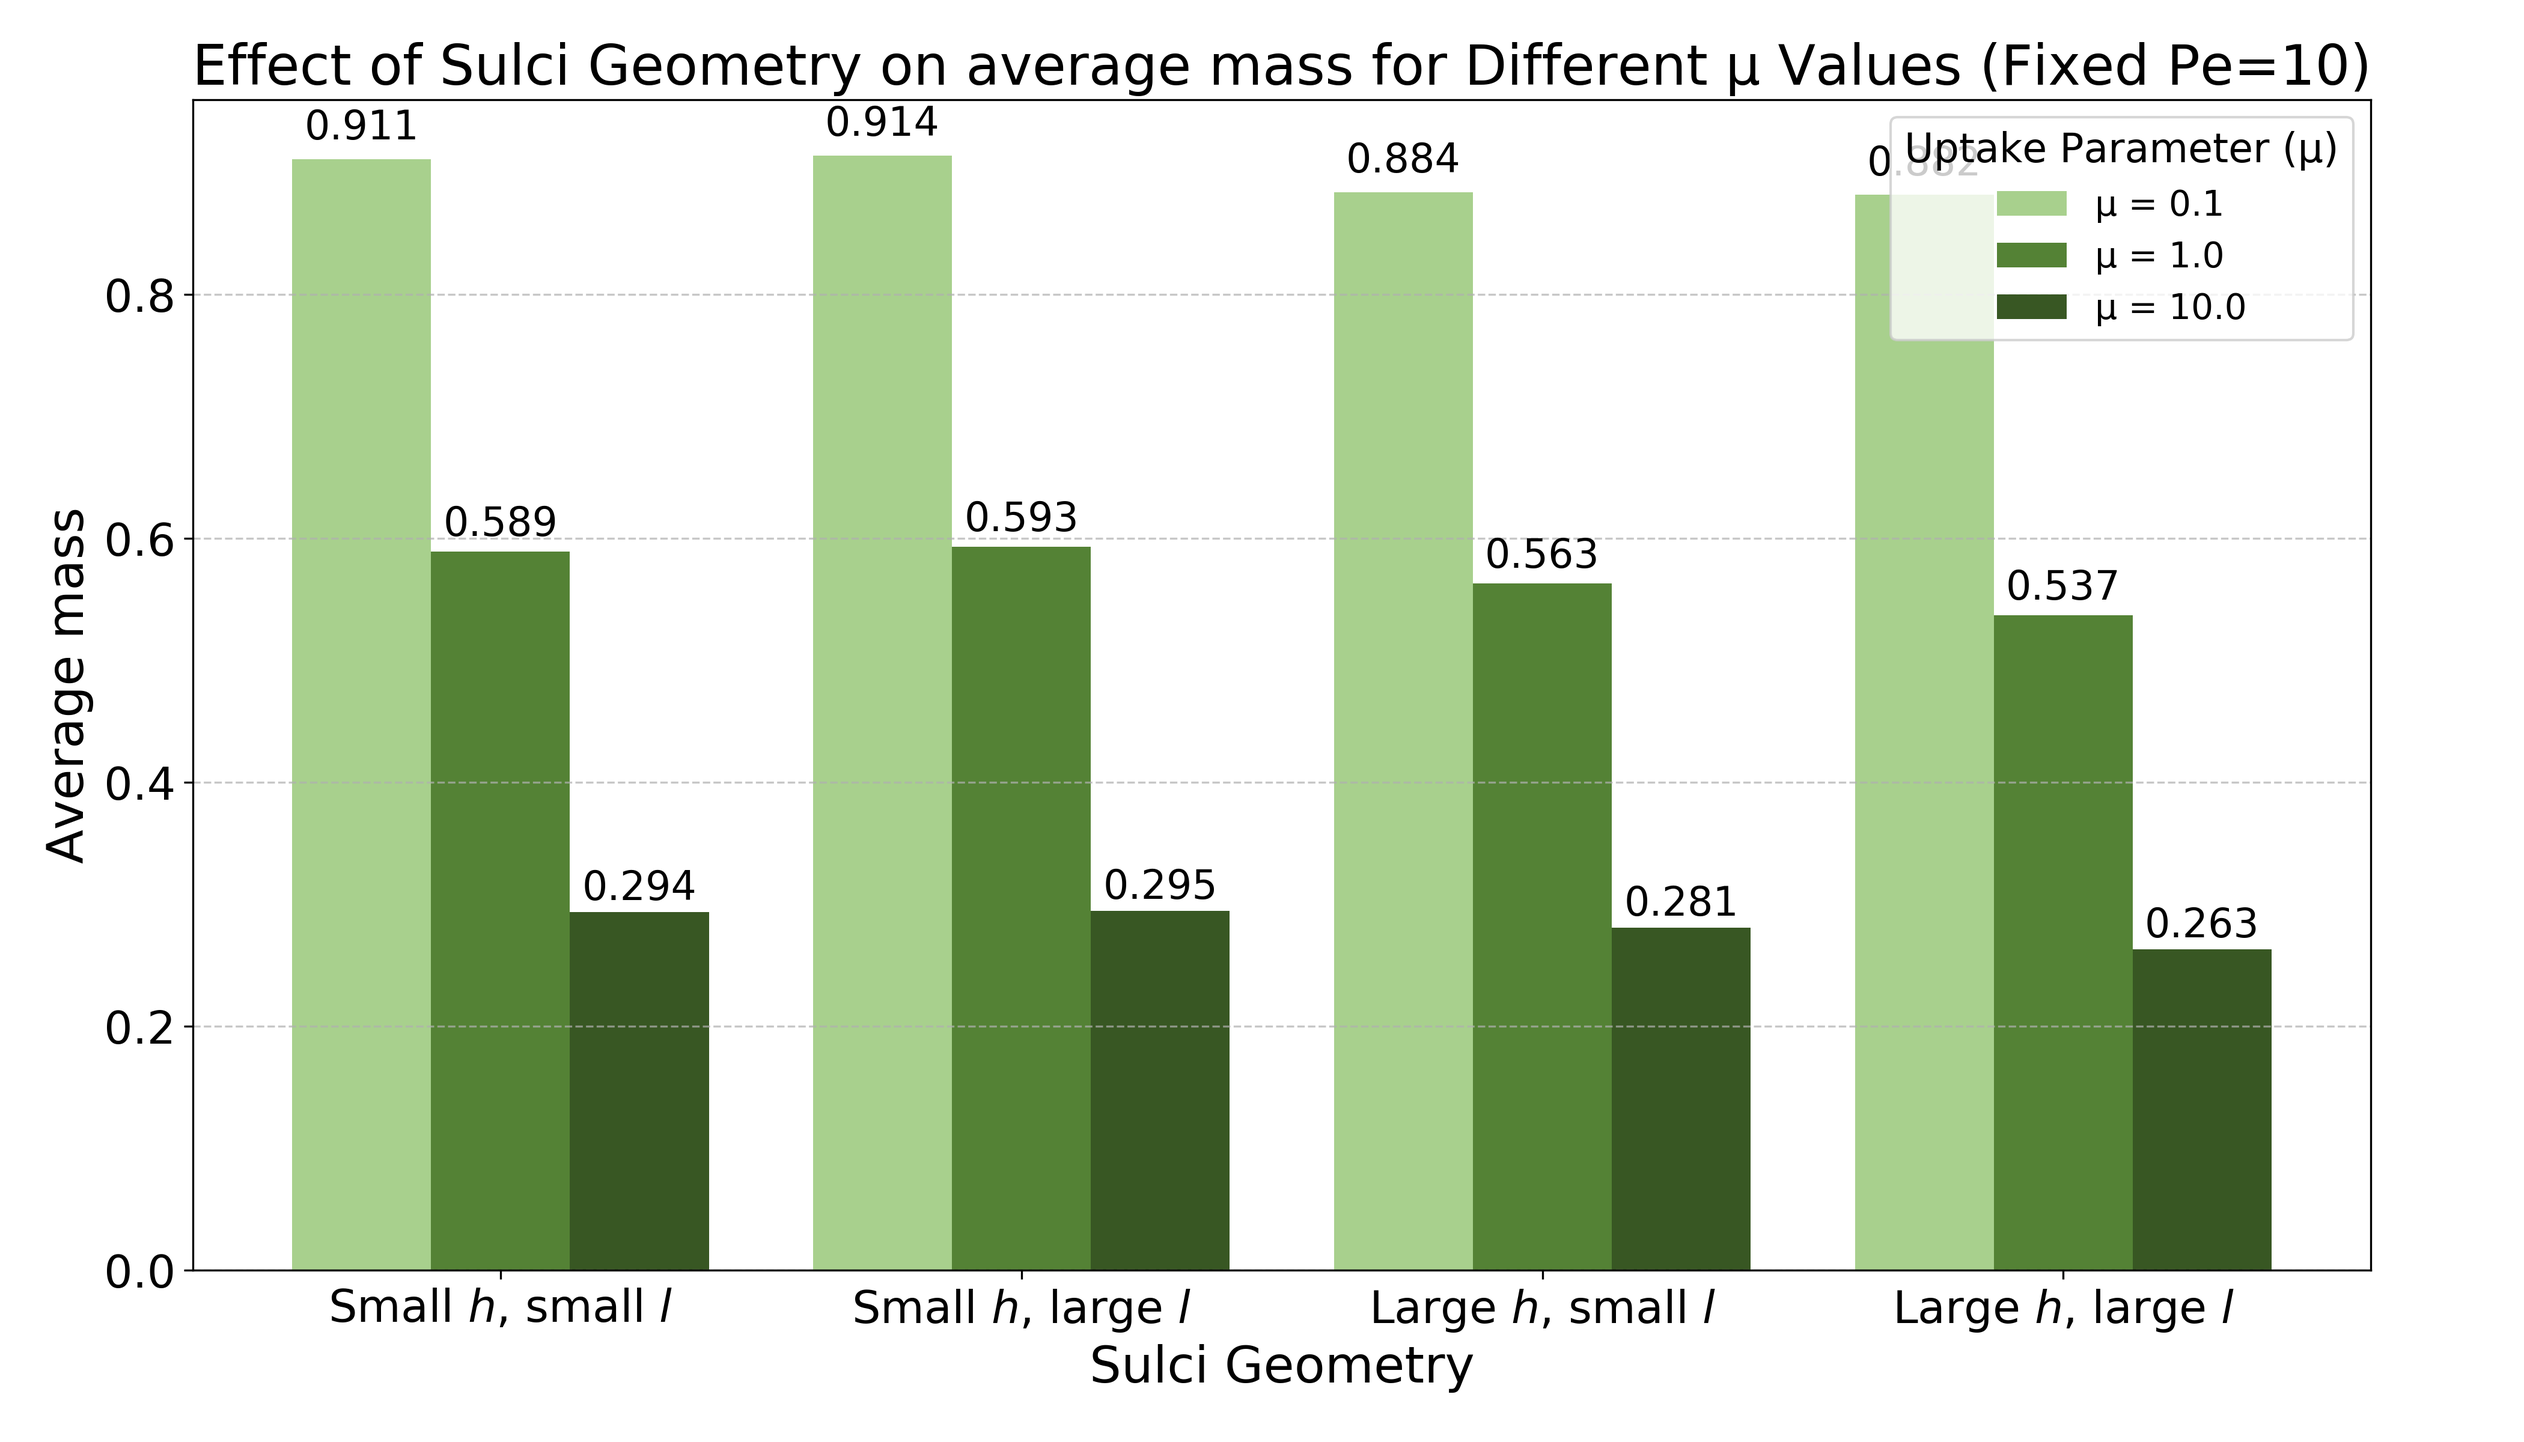
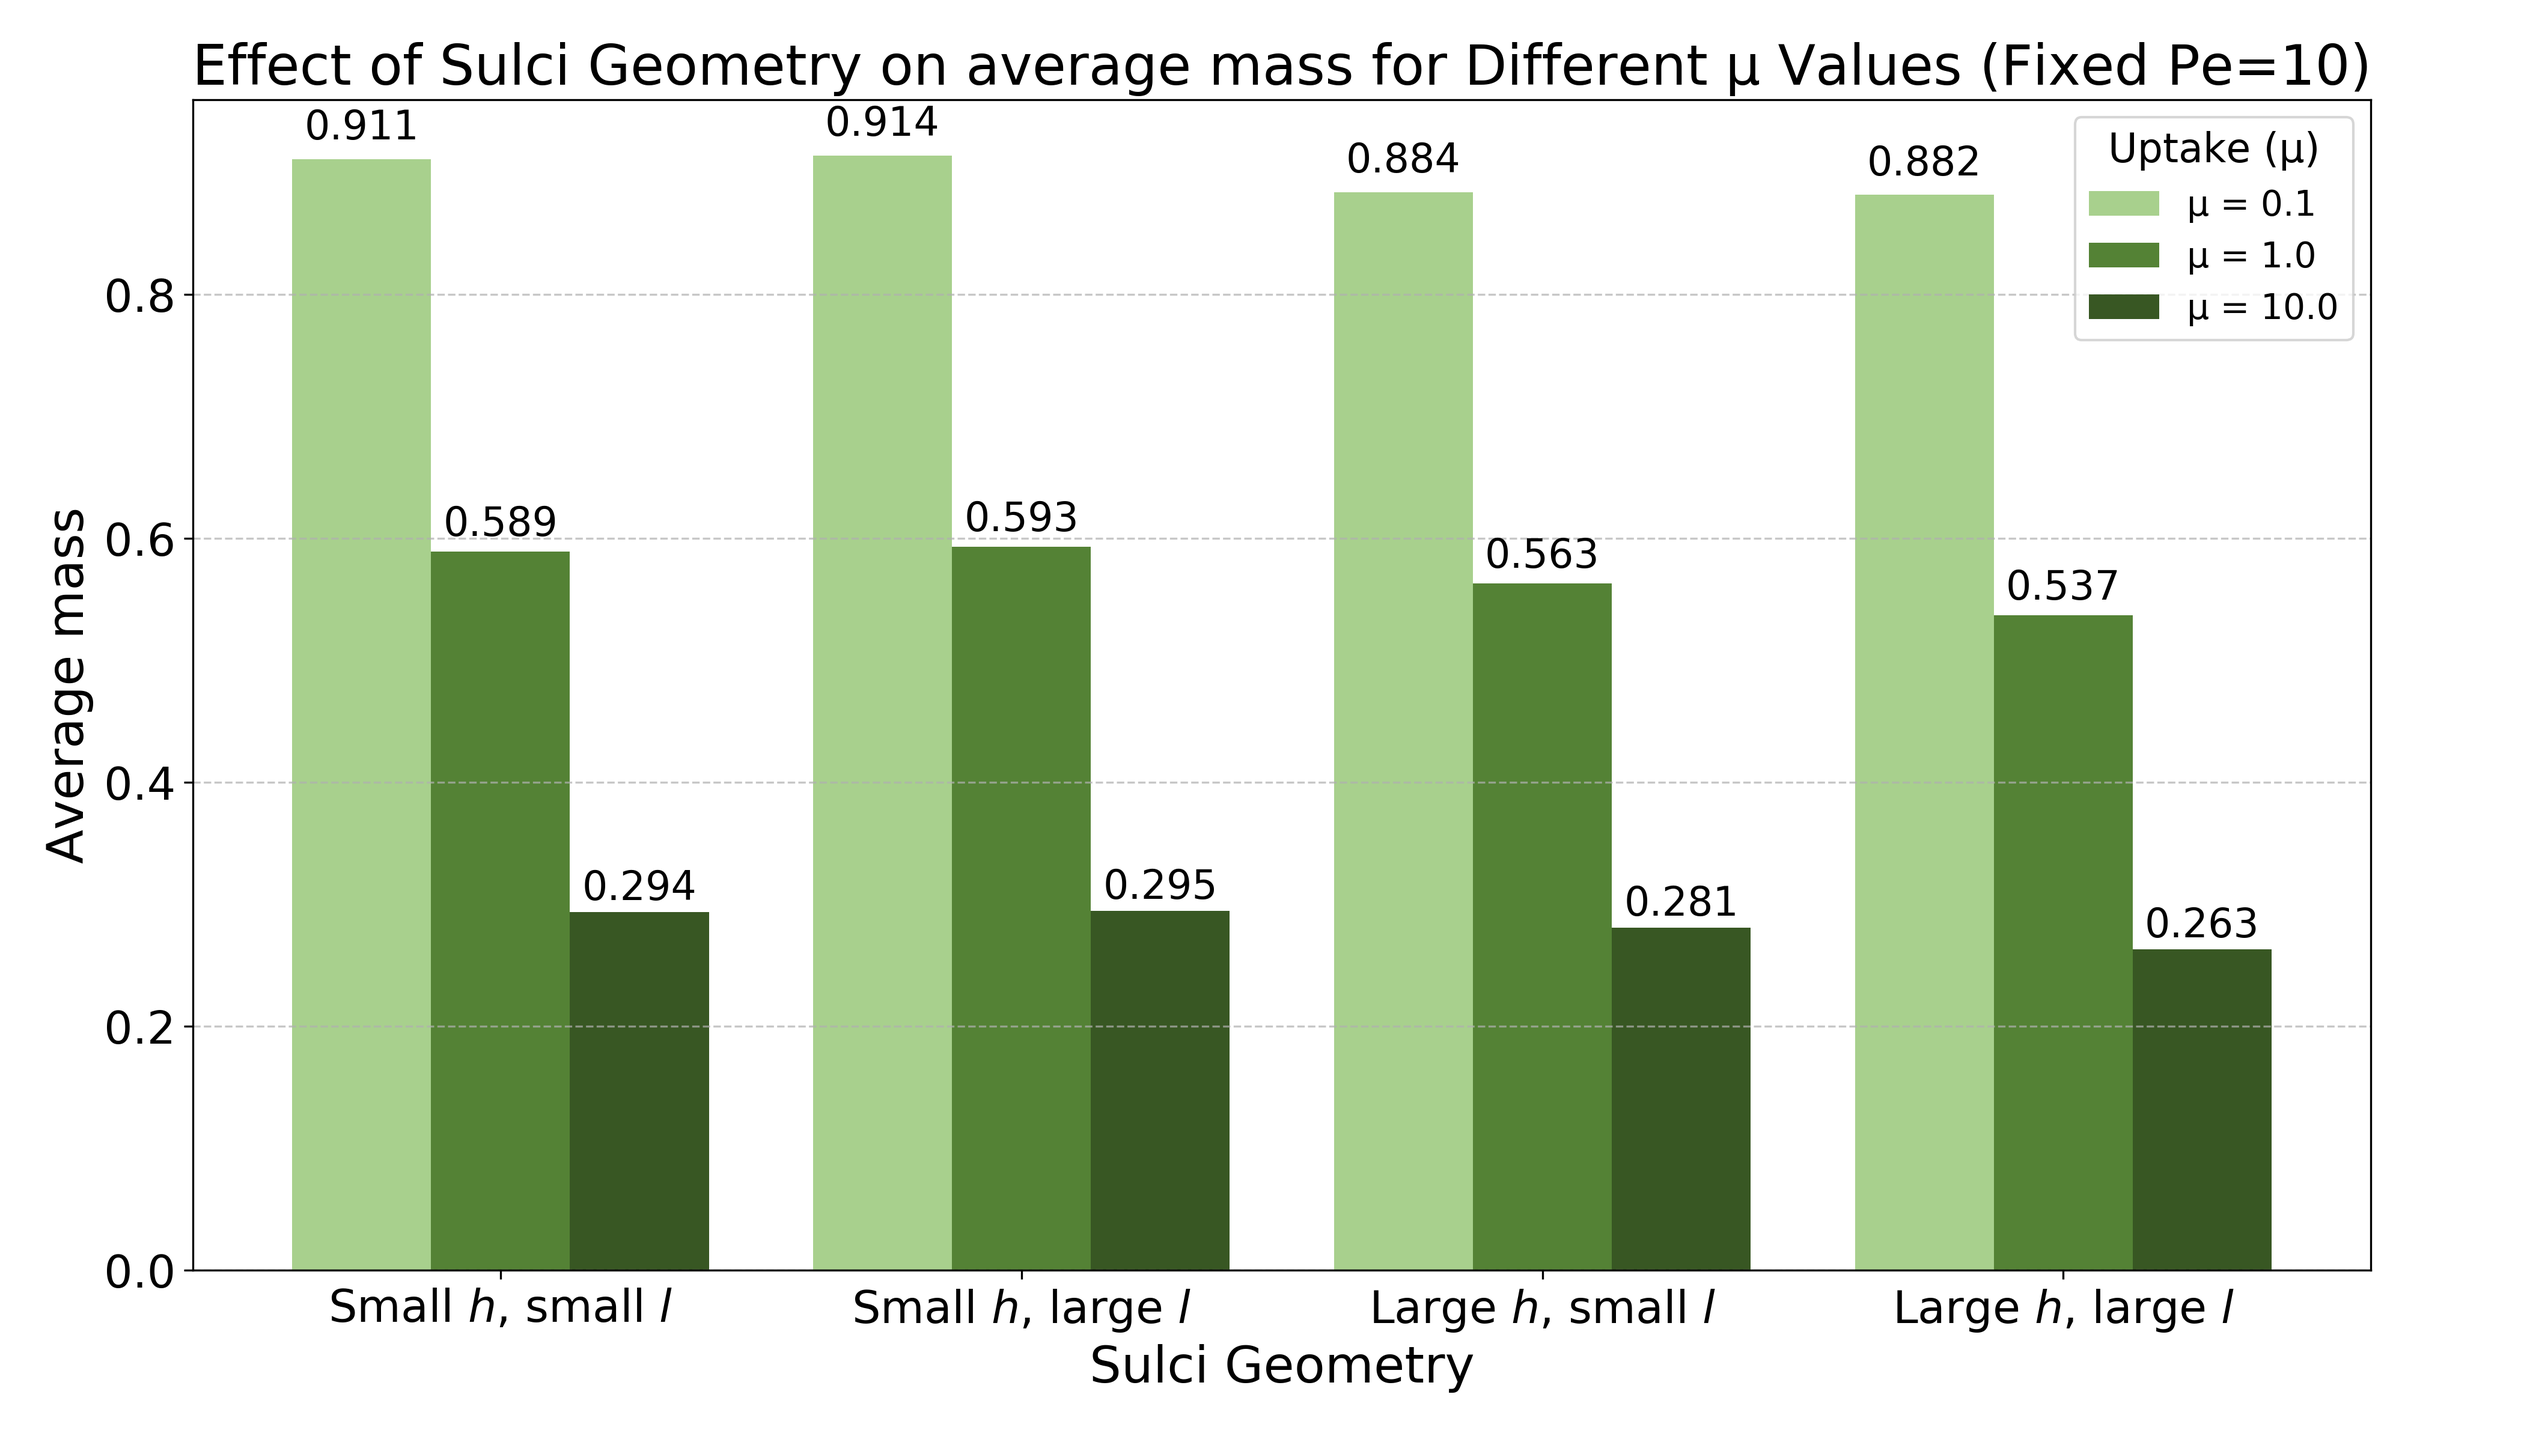
sulci label plots update

Changed region(s): [[0.7486, 0.0938, 0.9357, 0.25]]

diff --git a/sulci_analysis.py b/sulci_analysis.py
@@ -368,7 +368,7 @@ def compare_results_dual(results, output_dir, pe_values, mu_values, fixed_pe, fi
     # Add labels and legend
     plt.xlabel("Sulci Geometry", fontsize=20)
     plt.ylabel("Average mass", fontsize=20)
-    plt.title(f"Effect of Sulci Geometry on average mass for Different Pe Values (Fixed μ={fixed_mu})")
+    plt.title(f"Effect of Sulci Geometry on Average Mass for Different Pe Values (Fixed μ={fixed_mu})")
     plt.xticks(range(num_groups), display_names)
     plt.legend(title="Péclet Number")
     plt.grid(True, axis='y', linestyle='--', alpha=0.7)
@@ -423,7 +423,7 @@ def compare_results_dual(results, output_dir, pe_values, mu_values, fixed_pe, fi
     # Add labels and legend
     plt.xlabel("Sulci Geometry", fontsize=20)
     plt.ylabel("Average mass", fontsize=20)
-    plt.title(f"Effect of Sulci Geometry on average mass for Different μ Values (Fixed Pe={fixed_pe})")
+    plt.title(f"Effect of Sulci Geometry on Average Mass for Different μ Values (Fixed Pe={fixed_pe})")
     plt.xticks(range(num_groups), display_names)
     plt.legend(title="Uptake (μ)")
     plt.grid(True, axis='y', linestyle='--', alpha=0.7)
